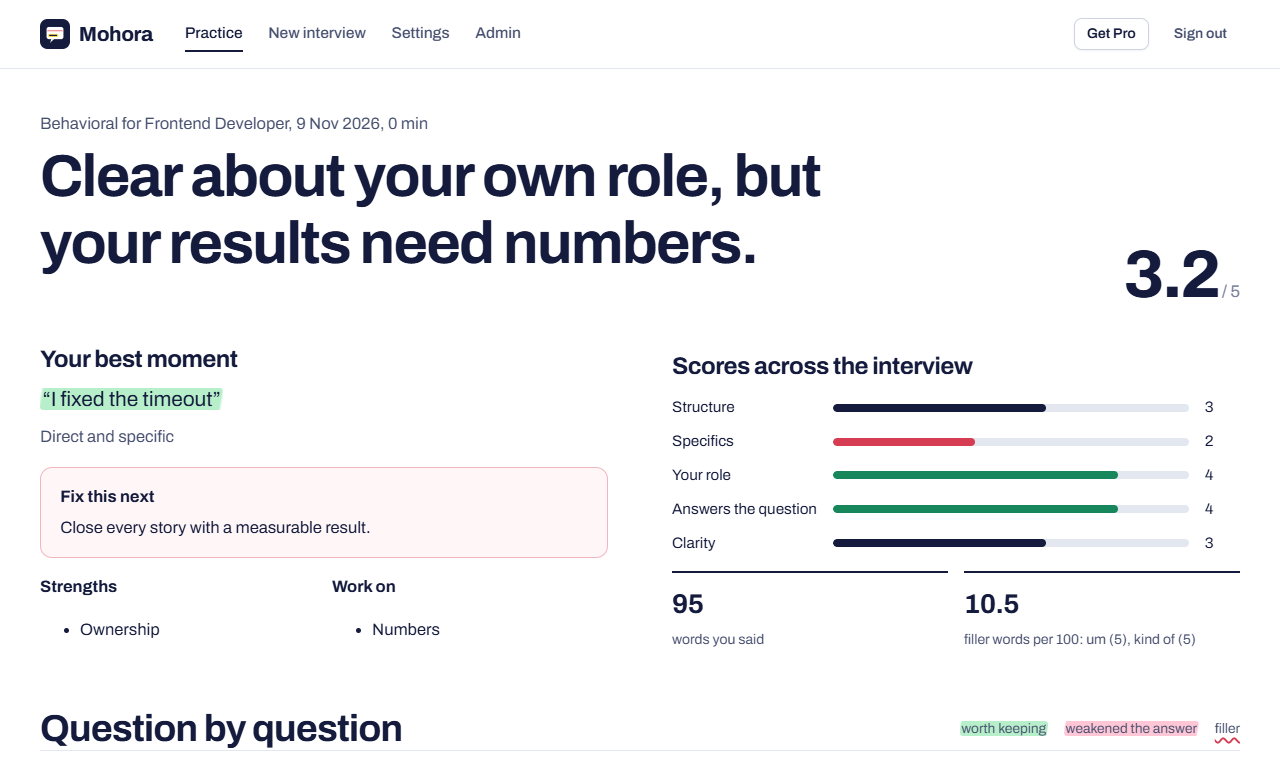
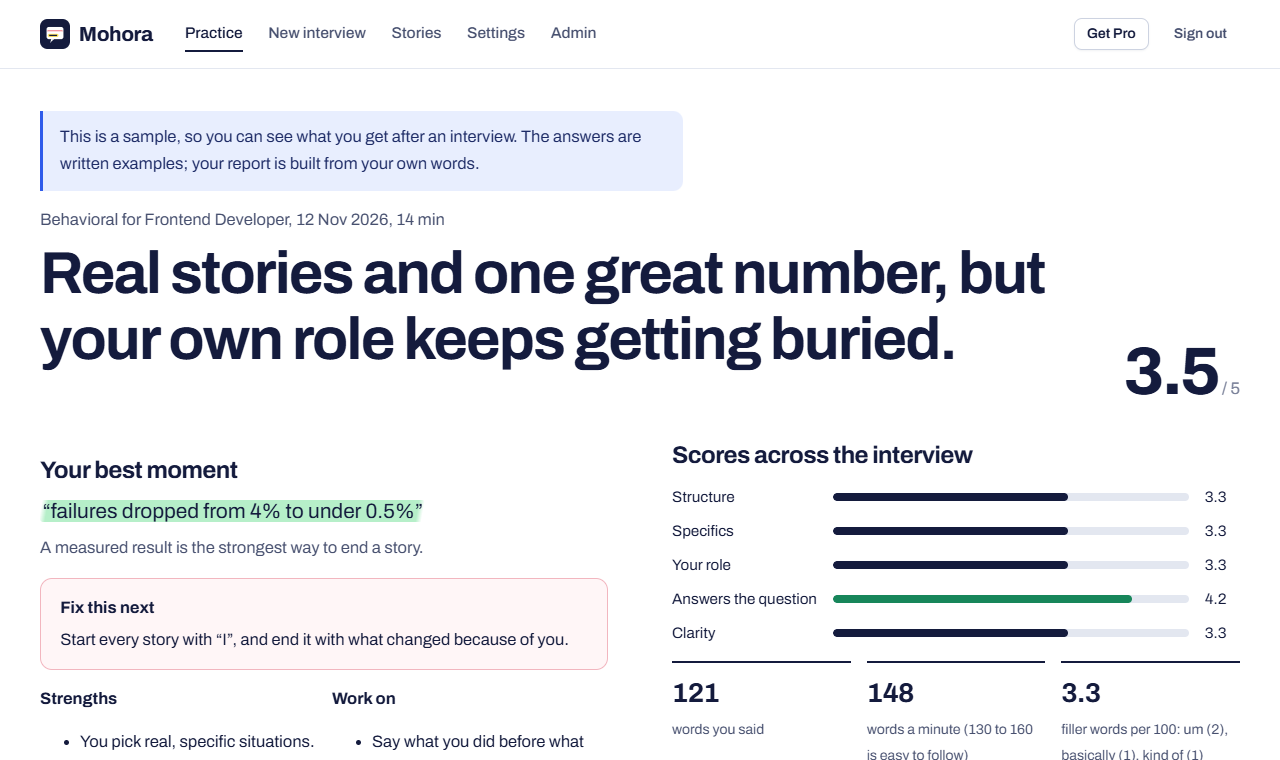
Update README for the practice hub

diff --git a/README.md b/README.md
@@ -6,17 +6,27 @@ It runs on the AI you already have: sign in with OpenRouter or Puter, paste a fr
 
 ![Home page with a live interviewer](docs/home.png)
 
+Most practice tools stop at one mock interview and a score. Mohora is built around the interview date: a daily plan, a readiness score you can see into, and weak answers that keep coming back until they land.
+
+![Practice hub with today's session, readiness score and plan](docs/practice.png)
+
 ## What it does
 
 - **CV first.** Upload a PDF or Word CV. The AI pulls out your profile, suggests roles from internship to lead, and lists the topics an interviewer will ask about. You pick the topics.
 - **Check the fit.** Paste a job post and get a screening score, missing keywords and concrete CV fixes.
-- **Seven interview types**, each with its own interviewer, questions and rubric: behavioral (STAR), role interview, HR and first job, job description match, online application questions, recruiter screen and final round.
+- **Eleven interview types**, each with its own interviewer, questions and rubric. Seven for jobs: behavioral (STAR), role interview, HR and first job, job description match, online application questions, recruiter screen and final round. Four specialist ones in Pro, each with one free try: salary negotiation, US student visa (F-1), IELTS speaking and viva board.
+- **A plan and a readiness score.** Set the interview date and get one short session per day, a light day before and a warm-up on the day. The score out of 100 is the sum of four visible parts, so it's clear what raises it.
+- **Weak answers come back.** Any answer under 4 out of 5 joins a review list and returns in a five-minute drill after one, three and seven days. Three good answers in a row retire it.
+- **Story bank.** Save an answer from a report as a STAR story, tidy it with AI, tag what it shows, and see which kinds of story are missing.
+- **Specific feedback, not generic.** Behavioral answers show which STAR parts were there and which were missing, next to the marked-up transcript.
+- **Share a result.** A public page with scores and summary only; the answers stay private. Invite a friend and both get a week of Pro.
+- **Question library.** A public page of the questions by interview type, each one a click away from practising it.
 - **The whole hiring process (Pro).** Practise the steps of a real application in order, from the written form to the final round, and skip the ones you don't need.
 - **Five ways to talk:** video call with your camera, voice call, listen and type, read and speak, or text chat.
 - **Two drawn interviewers** whose faces follow the conversation: they blink, look up while thinking, nod while you speak, raise their brows on a follow-up, and move their lips with the audio of their voice.
 - **Natural voices.** Edge's neural voices, a neural voice that runs in the browser (Kokoro), or OpenAI's voice through your own key. It measures the device first and only uses the in-browser voice when it can keep up.
 - **Feedback you can act on.** Your words come back highlighted (strong lines, weak lines, filler words), scored on five points, with a rewrite and a "fix this next". Redo any question.
-- **Owner tools.** Admin panel with funnel and usage numbers, user management, interview types and prompts editable as JSON, payments review, site flags, and a Telegram alert for every new sign-up.
+- **Owner tools.** Admin panel with funnel and usage numbers, user management, interview types and prompts editable as JSON, payments review, site flags, a Telegram alert for every new sign-up and a daily digest at 9 pm.
 - **Pro for 1 USDT.** TRC20 payments are verified on the TRON blockchain automatically; BEP20 payments go to the admin queue.
 
 ![Choosing how to talk and who interviews you](docs/setup.png)
@@ -72,12 +82,14 @@ run.py              one entry point for setup, dev, prod, checks, backups
 app/main.py         pages, API, security headers
 app/auth.py         Google sign-in, local sign-in, guards
 app/billing.py      Pro passes, USDT payments, TRON verification
+app/practice.py     practice hub: review schedule, readiness, plan, stories, sharing, question library
 app/admin.py        admin panel
 app/notify.py       Telegram alerts
 app/db.py           models, migrations, settings
 app/packs.json      interview types, hiring journey, prompts
 static/room.js      interview room and director
 static/setup.js     setup wizard
+static/practice.js  drills, goal, story bank, share links
 static/avatar.js    animated interviewers
 static/voice.js     speech recognition, voices, answer metrics
 static/app.js       AI connections and shared helpers
